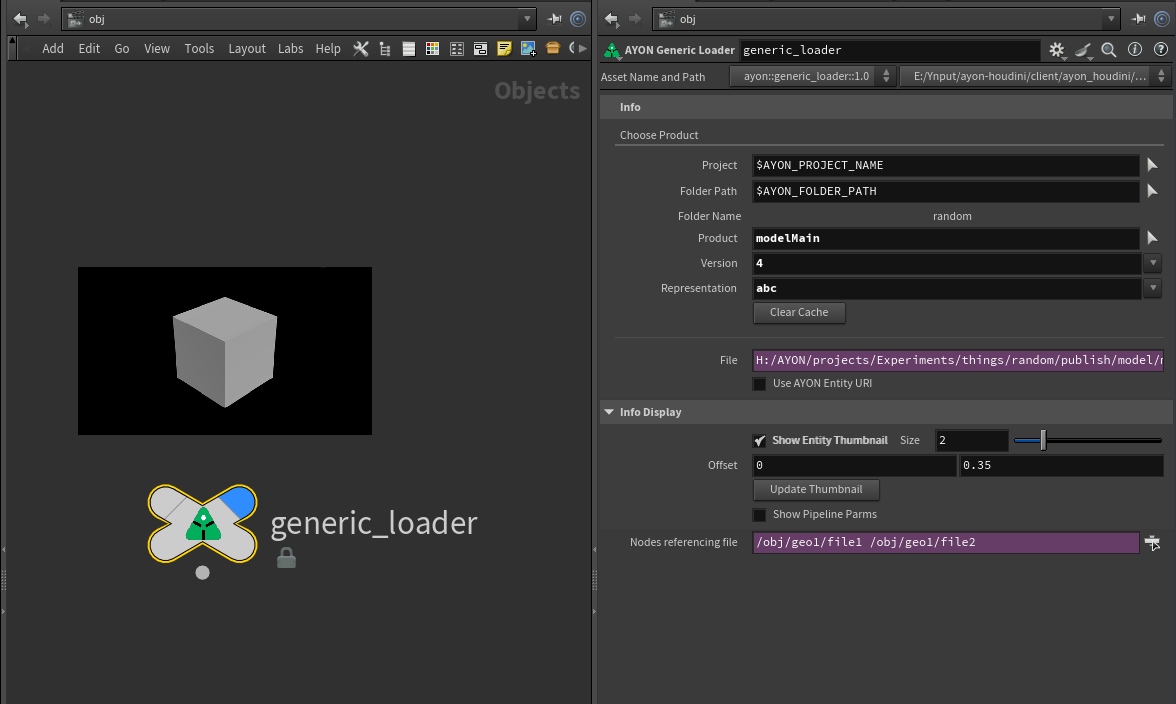
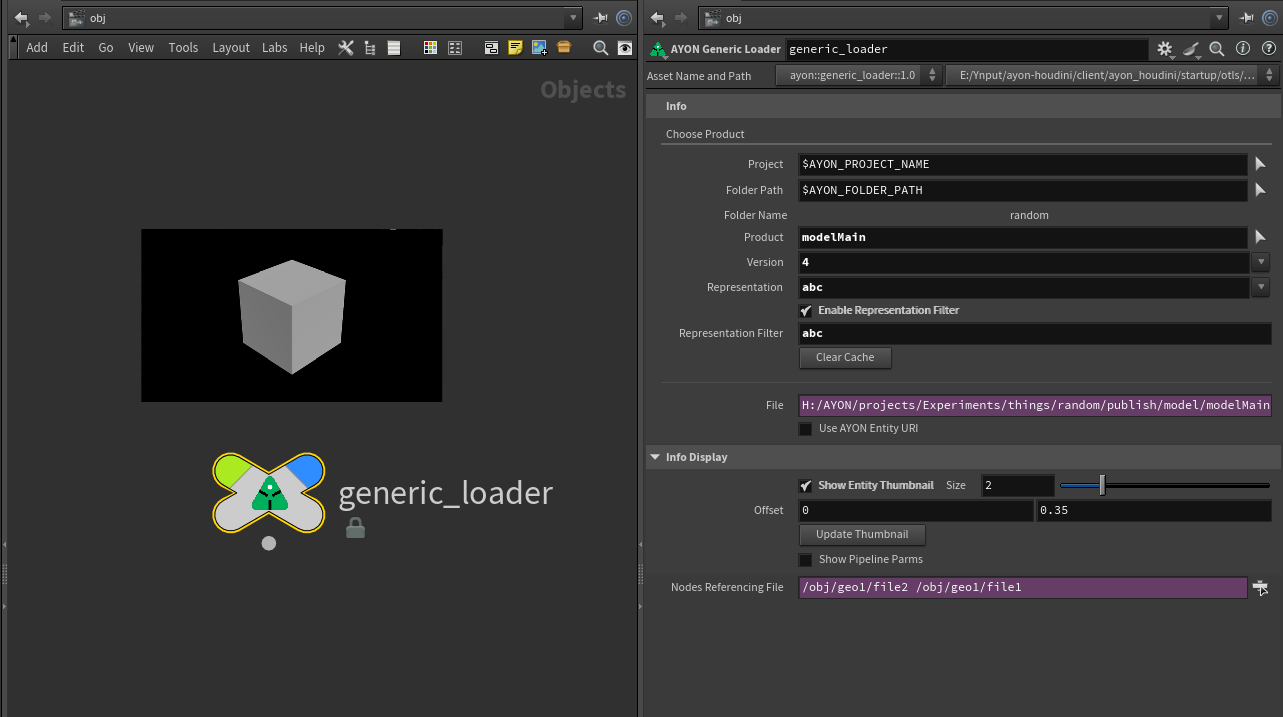
match information ot the current status of Houdini PR https://github.com/ynput/ayon-houdini/pull/199

Changed region(s): [[0.0, 0.0, 1.0, 1.0], [0.0612, 0.3125, 0.4286, 0.8438]]

diff --git a/website/docs/addon_houdini_artist_loader_hdas.md b/website/docs/addon_houdini_artist_loader_hdas.md
@@ -72,7 +72,8 @@ When using `Load with AYON` parm action with a file parm that's already connecte
 - **Product**: Selected Product.
 - **Version**: Selected Version.
 - **Representation**: Selected Representation (format).
-- **USD Compatible Representations** [LOPs only]: When this toggle is enabled, it filters the 
+- **Enable Representation Filter**: Enable to show the **Representation Filter** parameter.
+- **Representation Filter**: A space-separated list of representation names to filter. When used, it filters the representation drop-down menu.
 - **Clear Cache**: Clears node's cache.
 - **File**: Shows the file of the selected product. It automatically applies `$F` and `<UDIM>` tokens.
 - **Use AYON Entity URI**: When enabled the File parameter will turn into an AYON URI.
@@ -93,10 +94,15 @@ Supports expressions and context options. more examples check
 #### Overview
 It uses a combination of [Generic Loader](#generic-loader) and [Reference](https://www.sidefx.com/docs/houdini/nodes/lop/reference.html) node
 
+> The **representation filter** parameter on the inner Generic loader is set to 
+> ```
+> usd usda usdlc usdnc abc
+> ```
+
 ![](assets/houdini/artist/hda_lop_import_parameters.png)
 
 #### Parameters
-It shares the same parameters as generic loader except for `Nodes referencing file` and also add few more parameters.
+It shares the same parameters as generic loader and also add few more parameters.
 It also exposes some parameters of [Reference](https://www.sidefx.com/docs/houdini/nodes/lop/reference.html) node. 
 
 - **Reload Files**
@@ -115,12 +121,18 @@ It also exposes some parameters of [Reference](https://www.sidefx.com/docs/houdi
 ### Load Shot
 
 #### Overview
+
 It uses a combination of [Generic Loader](#generic-loader) and [Sublayer](https://www.sidefx.com/docs/houdini/nodes/lop/sublayer.html) node.
+
+> The **representation filter** parameter on the inner Generic loader is set to 
+> ```
+> usd usda usdlc usdnc abc
+> ```
 
 ![](assets/houdini/artist/hda_load_shot_parameters.png)
 
 #### Parameters
-It share the same parameters as generic loader except for `Nodes referencing file` and also add few more parameters.
+It share the same parameters as generic loader and also add few more parameters.
 
 - **Reload Files**
 - **Mute Layer**
